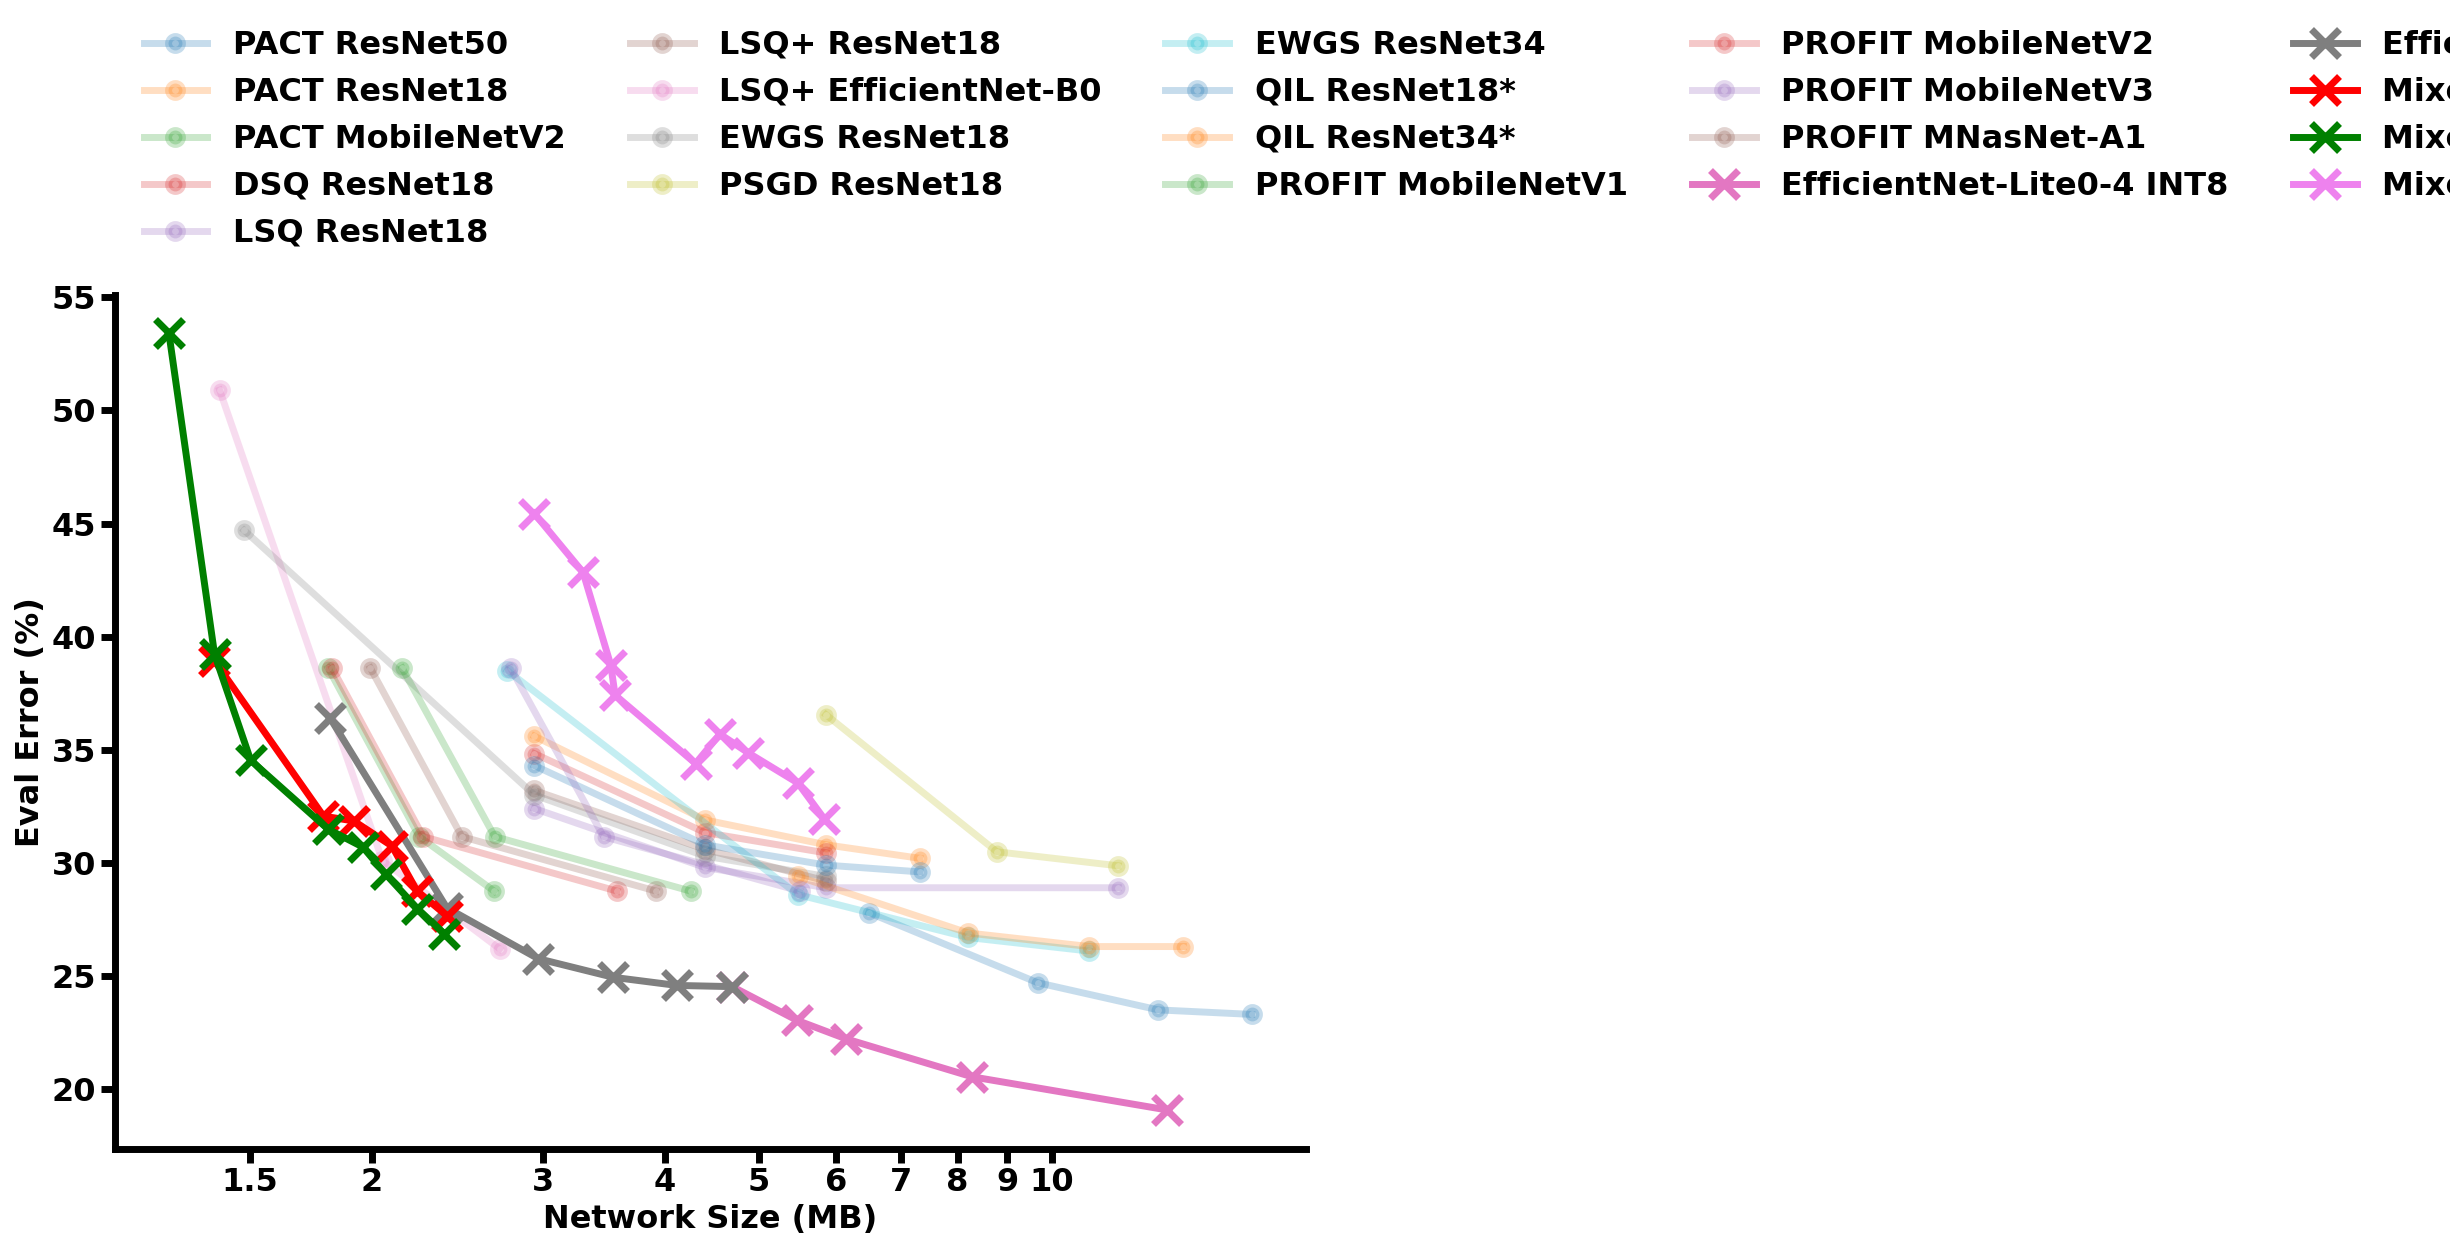
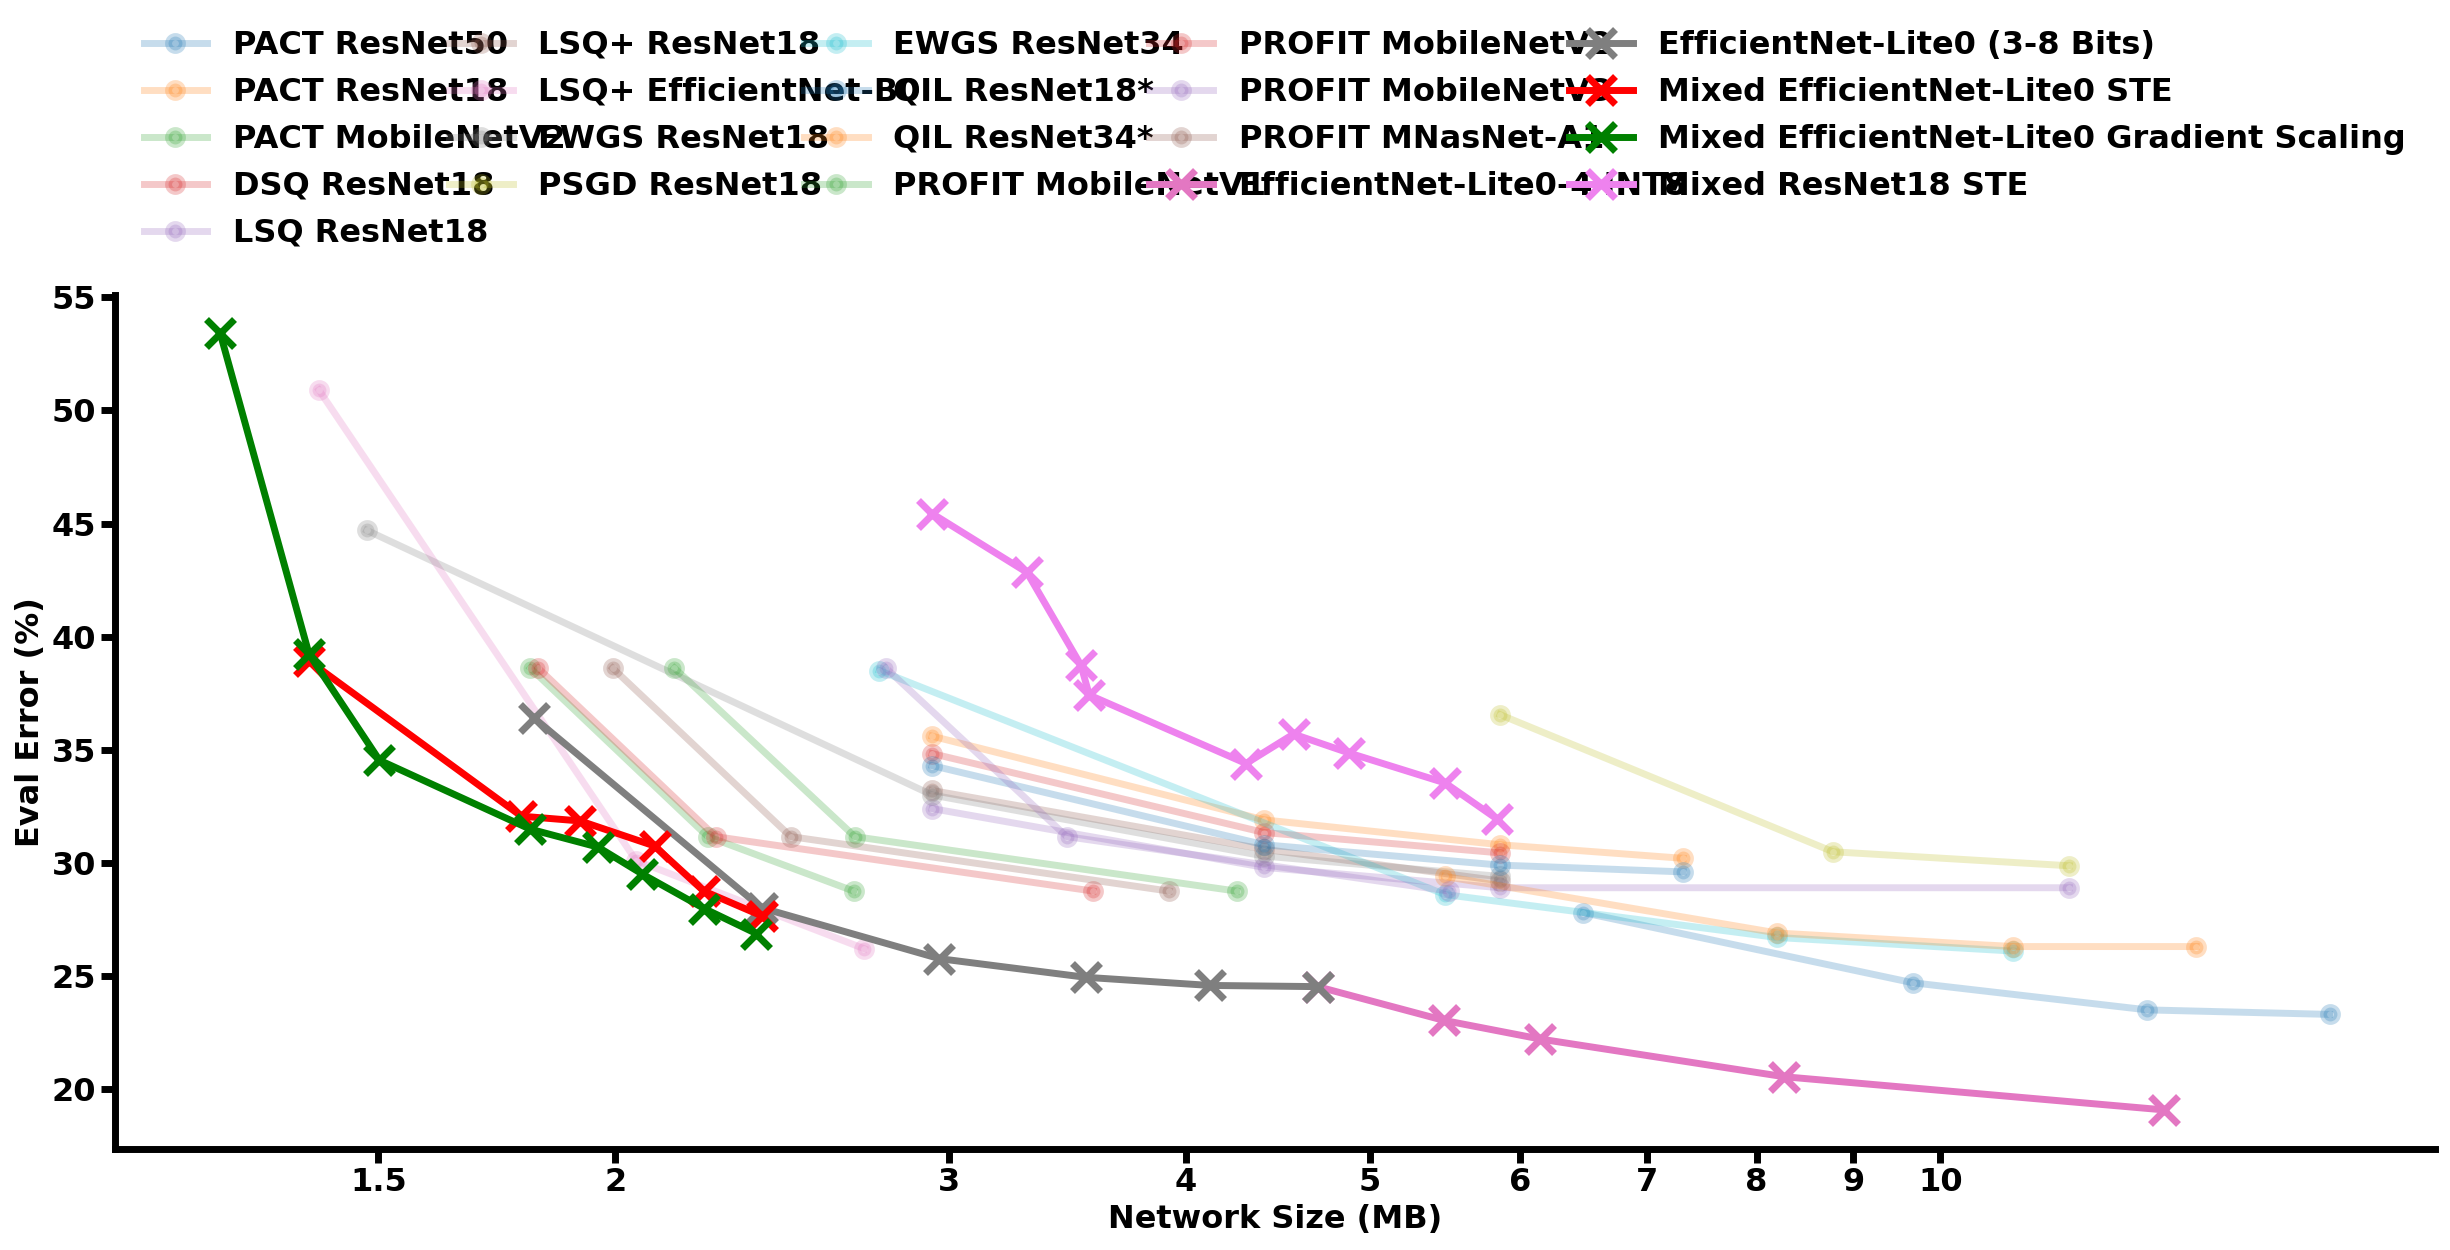
normal - test

diff --git a/examples/efficientnet/visualization_bits.py b/examples/efficientnet/visualization_bits.py
@@ -374,25 +374,25 @@ def plot_bits(config: ml_collections.ConfigDict, workdir: str):
         ax[0].bar(pos, v[0], color=v[3], label=color_to_label[v[3]])
         pos += 1
 
-    pos = 1
-    for k, v in enet_xmax.items():
-      skip = False
-      for iu in omit:
-        if iu in k:
-          skip = True
-      if not skip:
-        ax[1].bar(pos, v[0], color=v[2], label=color_to_label[v[2]])
-        pos += 1
+    # pos = 1
+    # for k, v in enet_xmax.items():
+    #   skip = False
+    #   for iu in omit:
+    #     if iu in k:
+    #       skip = True
+    #   if not skip:
+    #     ax[1].bar(pos, v[0], color=v[2], label=color_to_label[v[2]])
+    #     pos += 1
 
-    pos = 1
-    for k, v in enet_d.items():
-      skip = False
-      for iu in omit:
-        if iu in k:
-          skip = True
-      if not skip:
-        ax[2].bar(pos, v[0], color=v[2], label=color_to_label[v[2]])
-        pos += 1
+    # pos = 1
+    # for k, v in enet_d.items():
+    #   skip = False
+    #   for iu in omit:
+    #     if iu in k:
+    #       skip = True
+    #   if not skip:
+    #     ax[2].bar(pos, v[0], color=v[2], label=color_to_label[v[2]])
+    #     pos += 1
 
     ax[2].set_xlabel("#quantization", fontsize=font_size, fontweight='bold')
     ax[2].set_ylabel("step size", fontsize=font_size, fontweight='bold')
@@ -403,8 +403,8 @@ def plot_bits(config: ml_collections.ConfigDict, workdir: str):
 
     handles, labels = plt.gca().get_legend_handles_labels()
     by_label = OrderedDict(zip(labels, handles))
-    plt.legend(by_label.values(), by_label.keys(), bbox_to_anchor=(1.04, 0),
-               loc="lower left", borderaxespad=0, ncol=1,
+    plt.legend(by_label.values(), by_label.keys(), bbox_to_anchor=(0,1.02,1,0.2),
+               loc="lower left", borderaxespad=0, ncol=5, mode='expand',
                frameon=False,
                prop={'weight': 'bold', 'size': font_size})
 
@@ -413,8 +413,8 @@ def plot_bits(config: ml_collections.ConfigDict, workdir: str):
     plt.close()
 
   plot_fig([], 'efficientnet/figures/bitwidths_all.png')
-  plot_fig(['/act'], 'efficientnet/figures/bitwidths_w.png')
-  plot_fig(['/weight', '/bias'], 'efficientnet/figures/bitwidths_a.png')
+  #plot_fig(['/act'], 'efficientnet/figures/bitwidths_w.png')
+  #plot_fig(['/weight', '/bias'], 'efficientnet/figures/bitwidths_a.png')
 
 
 def main(argv):

diff --git a/examples/efficientnet/visualization.py b/examples/efficientnet/visualization.py
@@ -439,12 +439,24 @@ def plot_comparison(name):
           label='EfficientNet-Lite0 (3-8 Bits)', ms=20, markeredgewidth=5,
           linewidth=5)
 
-  xv = 0.577 * np.array([2.25, 2.5, 2.75, 3.0, 3.25,
-                        3.5, 3.75, 4.0]) + 0.16806400 / 2
-  yv = 100 - np.array([0.5492, 0.5864, 0.6286, 0.6758,
-                       0.6888, 0.6891, 0.7135, 0.7241]) * 100
-  ax.plot(xv, yv, marker='x', label="Mixed EfficientNet-Lite0",
+  # 
+
+
+
+  xv = np.array([1.294680054, 1.700428101, 1.832848022, 2.013916138, 2.142487061, 2.306124023]) + 0.16806400 / 2
+  yv = 100 - np.array([0.6106770635, 0.679361999, 0.6814778447, 0.6925455928 ,0.7124023438, 0.7234700322]) * 100
+  ax.plot(xv, yv, marker='x', label="Mixed EfficientNet-Lite0 STE",
           ms=20, markeredgewidth=5, linewidth=5, color='red')
+
+  xv = np.array([1.153934082, 1.294906128, 1.417925903, 1.719146118, 1.874620117, 1.982543091, 2.144371094, 2.290263916]) + 0.16806400 / 2
+  yv = 100 - np.array([0.46598, 0.607747376, 0.654622376, 0.6850585938, 0.693033874, 0.7049153447, 0.7202148438, 0.7312825322]) * 100
+  ax.plot(xv, yv, marker='x', label="Mixed EfficientNet-Lite0 Gradient Scaling",
+          ms=20, markeredgewidth=5, linewidth=5, color='green')
+
+  xv = np.array([2.919978271, 3.278890381, 3.50227417, 3.538114014, 4.284223145, 4.539738281, 4.855490234, 5.462999512, 5.81514502]) + 0.03840000 / 2
+  yv = 100 - np.array([0.5455729365, 0.5716145635, 0.6126301885, 0.6258137822, 0.6560872197, 0.6430664063, 0.6513671875, 0.6647135615, 0.6805012822]) * 100
+  ax.plot(xv, yv, marker='x', label="Mixed ResNet18 STE",
+          ms=20, markeredgewidth=5, linewidth=5, color='violet')
 
   ax.set_xscale('log')
   plt.xticks([1.5, 2, 3, 4, 5, 6, 7, 8, 9, 10], [
@@ -452,9 +464,10 @@ def plot_comparison(name):
   ax.set_xlabel("Network Size (MB)", fontsize=font_size, fontweight='bold')
   ax.set_ylabel("Eval Error (%)", fontsize=font_size, fontweight='bold')
   plt.legend(
-      bbox_to_anchor=(1., 1.),
-      loc="upper left",
-      ncol=1,
+      bbox_to_anchor=(0,1.02,1,0.2),
+      loc="lower left",
+      ncol=5,
+      mode="expand",
       frameon=False,
       prop={'weight': 'bold', 'size': font_size}
   )
